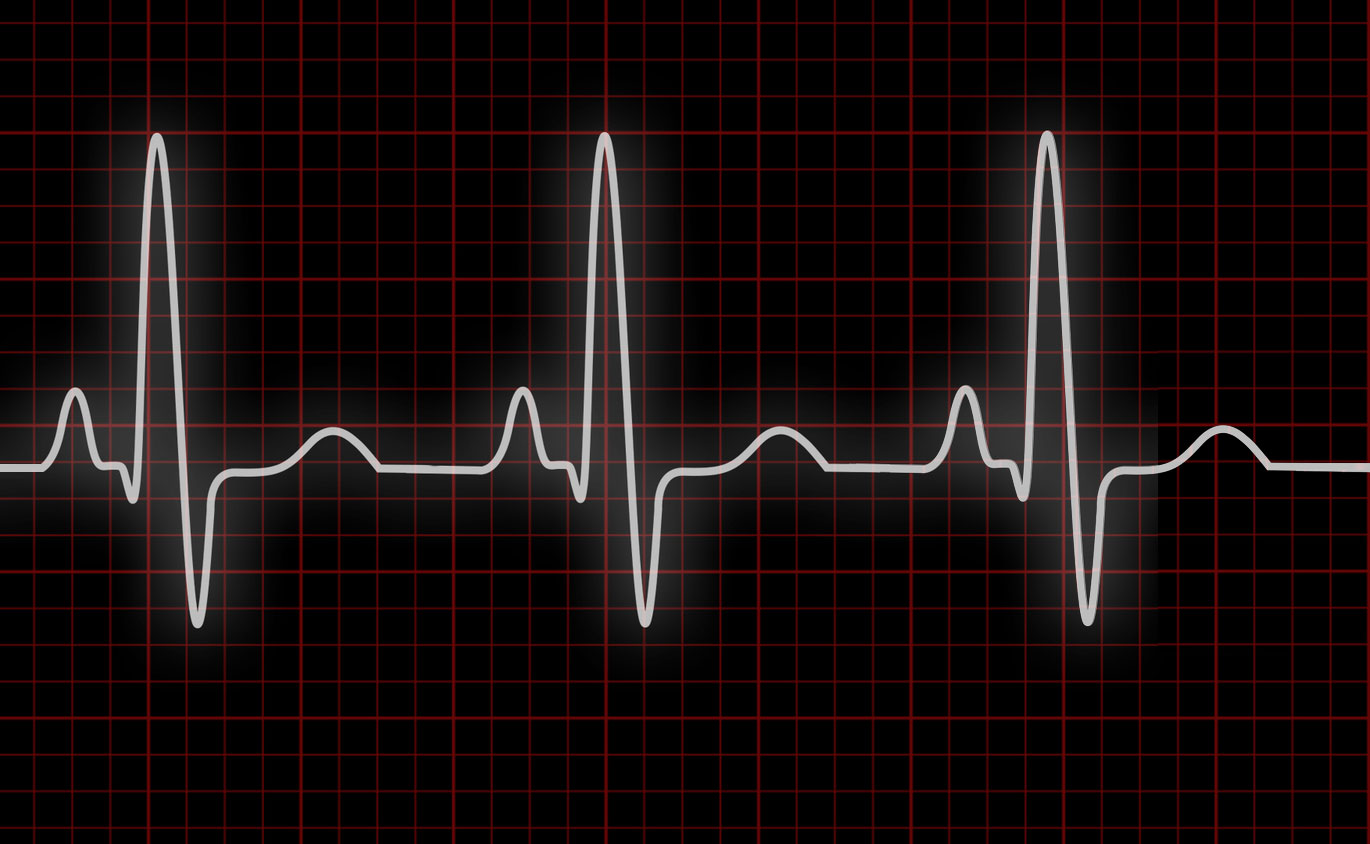
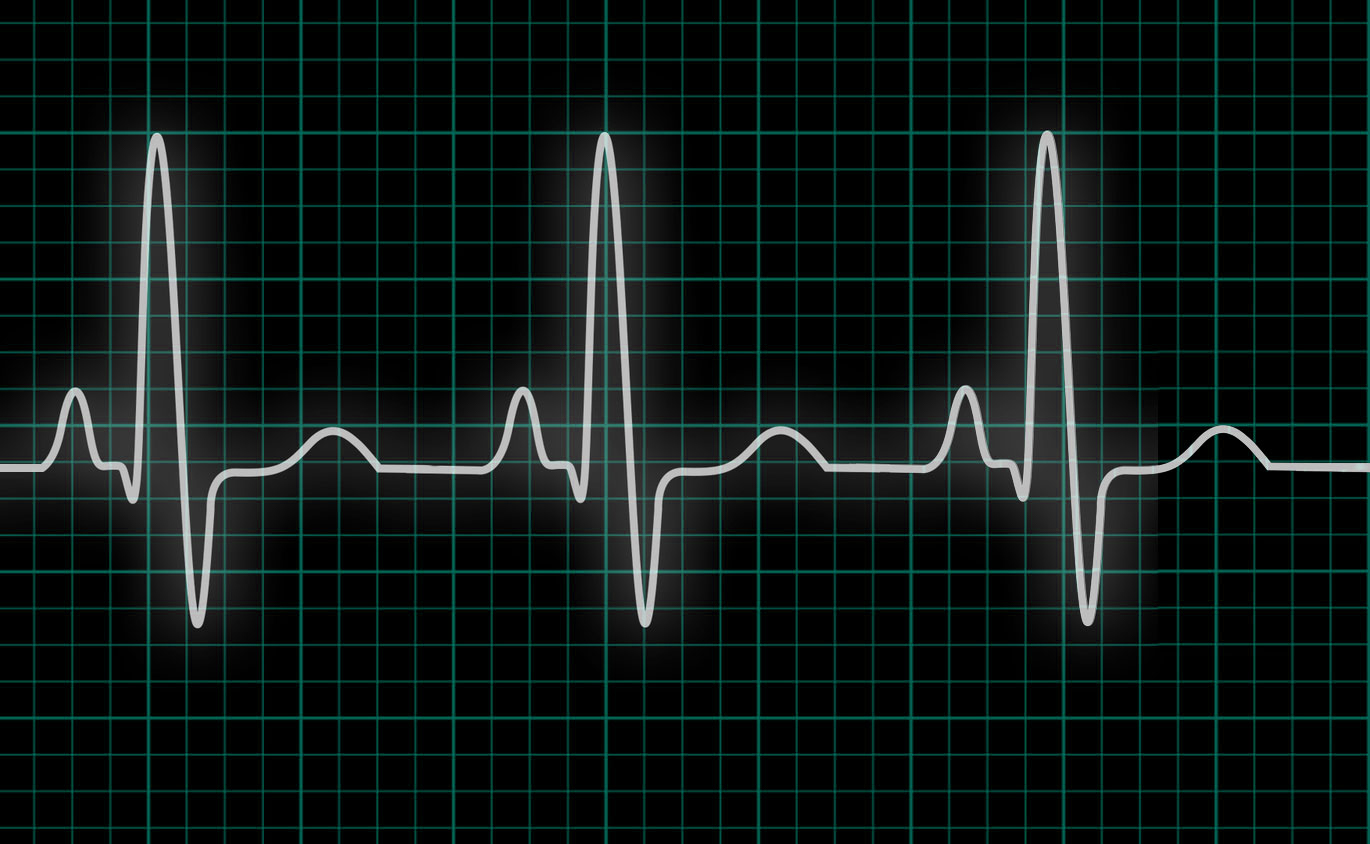
new bg color on login

Changed region(s): [[0.0, 0.0, 1.0, 1.0]]

diff --git a/src/pages/content/content.html b/src/pages/content/content.html
@@ -24,8 +24,6 @@
           <p class="p-0 m-0">Age:</p>
         </div>
       </div>
-      </div>
-      </div>
     </div>
   </div>
   <hr>
@@ -52,19 +50,6 @@
       <li class="legend__end">Very severe</li>
     </ul>
   </div>
-      <!-- Health Data -->
-  <accordion title="Height" class="heightinput"> 
-      <p><u>Last height recorded on ((last doctors appointment))</u></p>
-      <div class="tc mb2">
-          <span id="lbs-value" class="ma0 f2 b dark-gray">5'4</span>
-          <span class="ma0 moon-gray">ft</span>
-        </div>
-        
-        <p class="ma0 tc mb4 moon-gray f6"><span id="kg-value">162.56</span> cm </p>
-        
-        <div class="dial mb4"></div>
-        <div class="tc">
-        </div>
   <!-- Health Data -->
   <accordion title="Height" class="heightinput">
     <div class="tc mb2">
@@ -79,17 +64,6 @@
     </div>
   </accordion>
   <accordion title="Weight" class="weightinput">
-      <p><u>Last height recorded on ((last doctors appointment))</u></p>
-      <div class="tc mb2">
-          <span id="lbs-value" class="ma0 f2 b dark-gray">125</span>
-          <span class="ma0 moon-gray">lbs</span>
-        </div>
-        
-        <p class="ma0 tc mb4 moon-gray f6"><span id="kg-value">56</span> kg</p>
-        
-        <div class="dial mb4"></div>
-        <div class="tc">
-        </div>
     <div class="tc mb2">
       <span id="lbs-value" class="ma0 f2 b dark-gray">125</span>
       <span class="ma0 moon-gray">lbs</span>

diff --git a/src/providers/data/data.service.ts b/src/providers/data/data.service.ts
@@ -18,10 +18,10 @@ export class DataService {
   }
 
   // Test Prescription logic
-  getDrugById(id: number) {
+  // getDrugById(id: number) {
     //return this.db.database.ref('results').orderByChild('id').equalTo('8ee4dc5e-df8e-4c0d-8522-a648565ea366').;
-    return this.db.list('results', ref => ref.orderByChild('id').equalTo('8ee4dc5e-df8e-4c0d-8522-a648565ea366').limitToFirst(5)).valueChanges();
-  }
+  //   return this.db.list('results', ref => ref.orderByChild('id').equalTo('8ee4dc5e-df8e-4c0d-8522-a648565ea366').limitToFirst(5)).valueChanges();
+  // }
 
   // Welcome logic
 

diff --git a/src/pages/content/content.ts b/src/pages/content/content.ts
@@ -28,7 +28,7 @@ $(document).ready(function () {
       reader.onload = function (e: any) {
         let target: any = e.target; //<-- This (any) will tell compiler to shut up!
         let content: string = target.result;
-        $(".profile-pic").attr("src", this.result);
+        $(".profile-pic").attr("src", target.result);
       };
 
       reader.readAsDataURL(input.files[0]);
